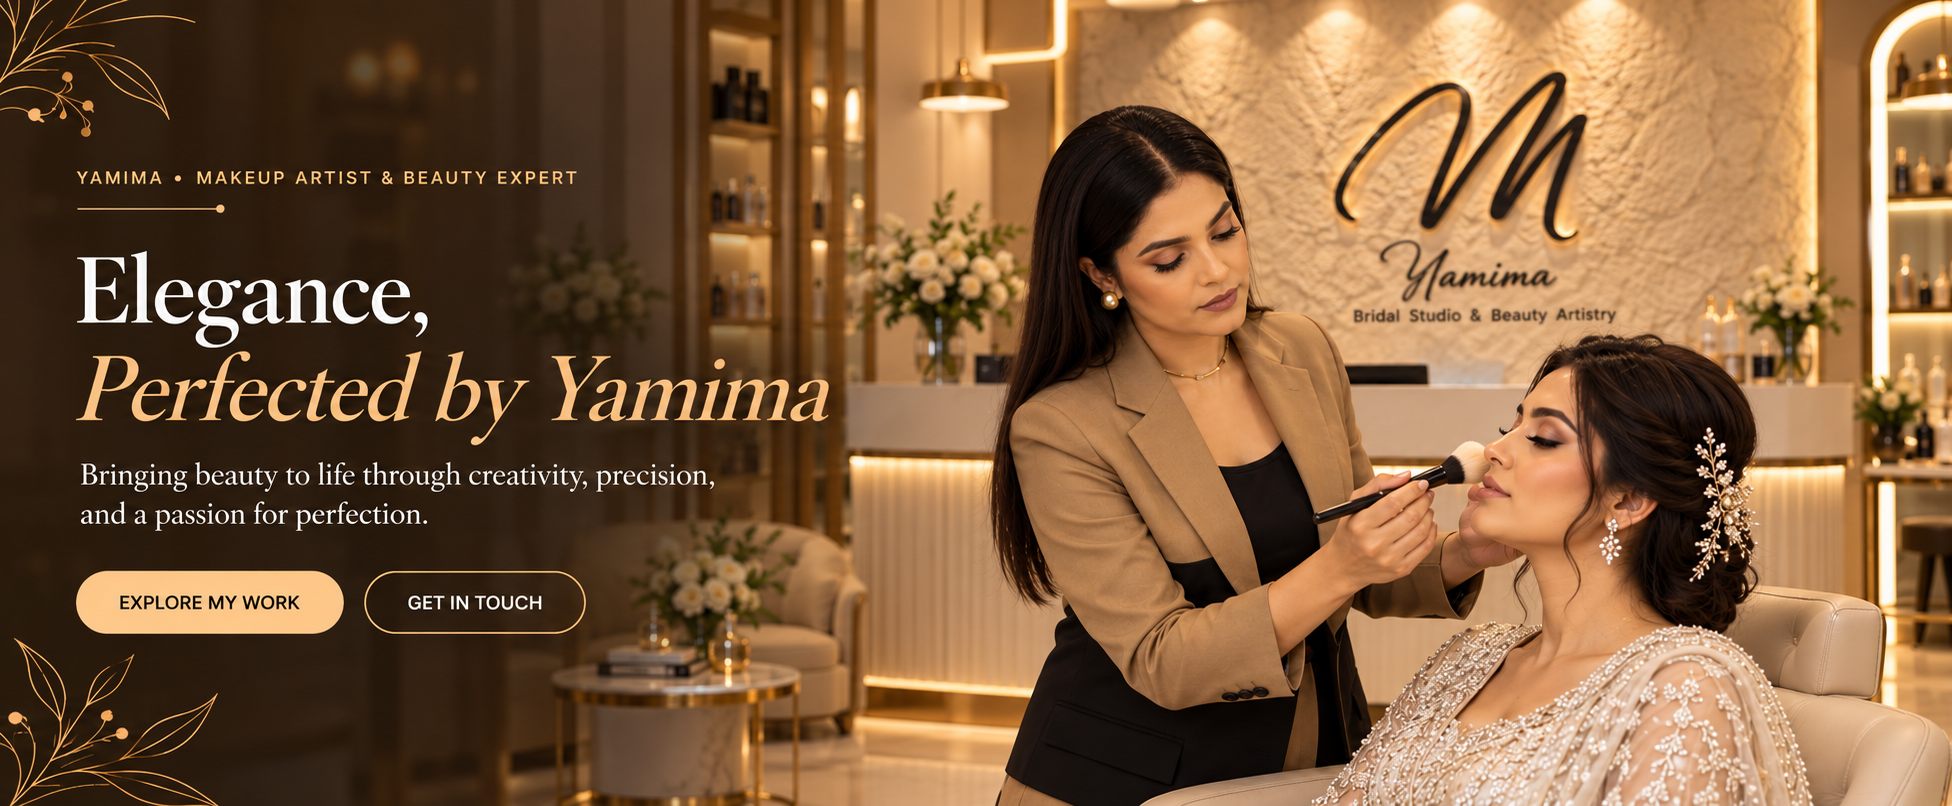
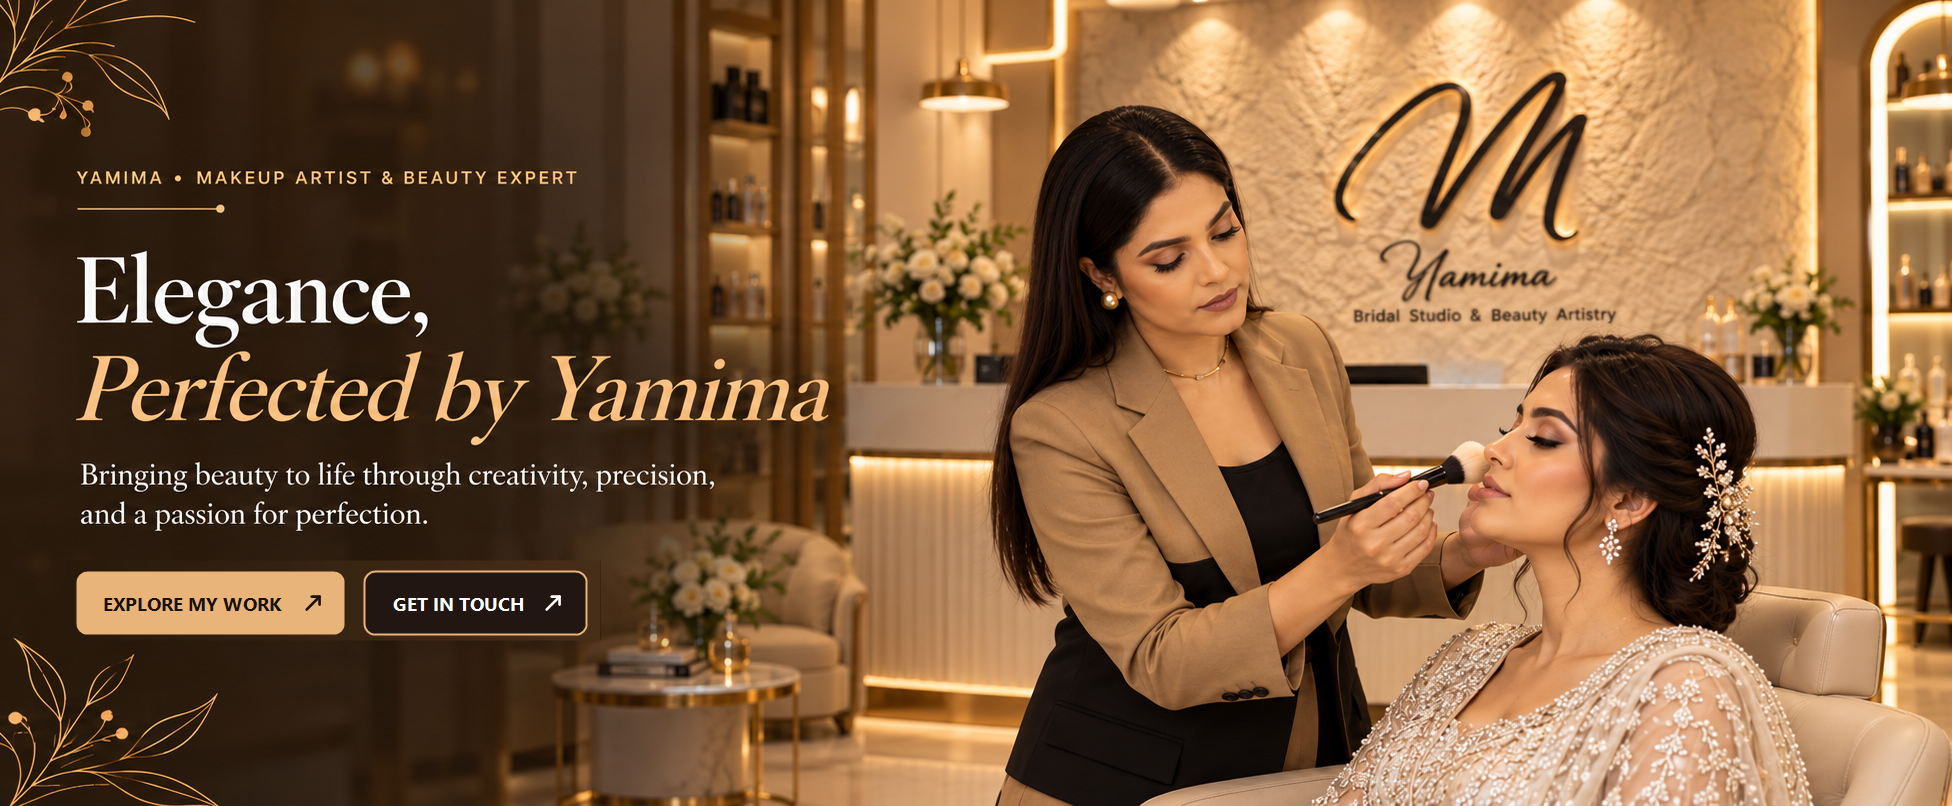
Convert hero buttons from pill shape to 8px rounded rectangle with diagonal arrow matching header button style

Changed region(s): [[0.0312, 0.6824, 0.3125, 0.8065]]

diff --git a/assets/css/styles.css b/assets/css/styles.css
@@ -997,7 +997,7 @@ html {scroll-behavior:auto!important;scroll-padding-top:0!important;}
   object-position:center; filter:none; }
 .hero-approved-hotspots { position:absolute; inset:0; pointer-events:none; }
 .hero-approved-hotspot { position:absolute; display:block; pointer-events:auto;
-  background:transparent; border-radius:999px; outline-offset:4px; }
+  background:transparent; border-radius:8px; outline-offset:4px; }
 .hero-approved-hotspot:focus-visible { outline:3px solid #ffd597; background:rgba(255,218,164,.13); }
 .hero-approved-mobile-content { display:none; }
 /* This is visually hidden text for screen readers, not a second visible label. */
@@ -1052,7 +1052,7 @@ html {scroll-behavior:auto!important;scroll-padding-top:0!important;}
    so that its headings and real link hit areas are never cropped. The unobtrusive
    backing is the same photograph (not a different or placeholder image). */
 @media (min-width:1101px) and (min-aspect-ratio: 3 / 2) {
-  .hero-approved { background:linear-gradient(rgba(28,17,11,.84),rgba(28,17,11,.84)),url('../img/yamima-makeup-artist-hero-20261030.png') center / cover no-repeat #25180f; }
+  .hero-approved { background:linear-gradient(rgba(28,17,11,.84),rgba(28,17,11,.84)),url('../img/yamima-makeup-artist-hero-20261030.png?v=20261105-hero-buttons-v6') center / cover no-repeat #25180f; }
   .hero-approved-photo { object-fit:contain; object-position:center center; }
 }
 /* Image-backed real links: preserve the graphic's style; make the complete button
@@ -1067,7 +1067,7 @@ html {scroll-behavior:auto!important;scroll-padding-top:0!important;}
 /* 2026-11-02: Hover is a contained tint, not a second border. The desktop
    button outlines are already painted into the approved hero photograph. */
 .hero-approved-hotspot {
-  box-sizing:border-box; overflow:hidden; border:0; border-radius:999px;
+  box-sizing:border-box; overflow:hidden; border:0; border-radius:8px;
   box-shadow:none; outline:none; background:transparent;
   transition:background-color .18s ease;
 }
@@ -1097,11 +1097,11 @@ html {scroll-behavior:auto!important;scroll-padding-top:0!important;}
    No CSS border/outline/shadow is painted outside the photographed buttons. */
 .hero-approved-hotspot, .hero-approved-hotspot:hover, .hero-approved-hotspot:focus-visible {
   background:transparent; border:0; box-shadow:none; transform:none;
-  overflow:hidden; border-radius:9999px; box-sizing:border-box;
+  overflow:hidden; border-radius:8px; box-sizing:border-box;
 }
 .hero-approved-hotspot { isolation:isolate; transition:none; }
 .hero-approved-hotspot::before {
-  content:""; position:absolute; inset:4px; border-radius:9999px;
+  content:""; position:absolute; inset:4px; border-radius:8px;
   background:rgba(255,224,180,0); pointer-events:none;
   transition:background-color .2s ease;
 }

diff --git a/index.html b/index.html
@@ -16,7 +16,7 @@
 <link href="https://fonts.googleapis.com" rel="preconnect"/>
 <link crossorigin="" href="https://fonts.gstatic.com" rel="preconnect"/>
 <link href="https://fonts.googleapis.com/css2?family=Allura&amp;family=Cormorant+Garamond:wght@400;500;600&amp;family=Manrope:wght@400;500;600;700&amp;family=WindSong:wght@400&amp;display=swap" rel="stylesheet"/>
-<link href="assets/css/styles.css?v=20261105-buttons-unified-v5" rel="stylesheet"/>
+<link href="assets/css/styles.css?v=20261105-hero-buttons-v6" rel="stylesheet"/>
 <script defer="" src="assets/js/config.js"></script>
 <script defer="" src="assets/js/app.js"></script>
 <script defer="" src="assets/js/enhancements.js?v=20261102-hero-hover-geometry-v3"></script>
@@ -79,7 +79,7 @@
        both Yamima and the bride in full with proper composition. -->
   <picture class="hero-approved-picture">
     <source media="(max-width: 768px)" srcset="assets/img/yamima-makeup-artist-hero-mobile.jpg?v=20261105-mobile-banner-v2"/>
-    <img alt="Yamima makeup artist applying bridal makeup to a client in a warm salon, with the banner title Elegance, Perfected by Yamima" class="hero-approved-photo" decoding="async" fetchpriority="high" height="806" src="assets/img/yamima-makeup-artist-hero-20261030.png" width="1952"/>
+    <img alt="Yamima makeup artist applying bridal makeup to a client in a warm salon, with the banner title Elegance, Perfected by Yamima" class="hero-approved-photo" decoding="async" fetchpriority="high" height="806" src="assets/img/yamima-makeup-artist-hero-20261030.png?v=20261105-hero-buttons-v6" width="1952"/>
   </picture>
   <div class="hero-approved-hotspots" aria-label="Homepage actions">
     <a class="hero-approved-hotspot" data-artwork-rect="76,570,344,633" href="#portfolio" aria-label="Explore My Work — go to Portfolio"><span class="sr-only">Explore My Work</span></a>
